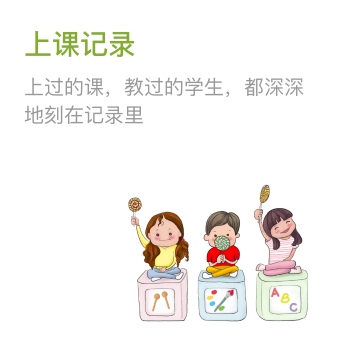
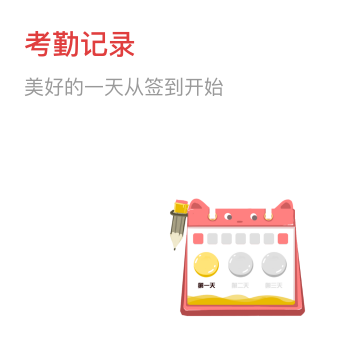
cahnge=>home-mianViewLinkPan

diff --git a/src/page/teacher/home.vue b/src/page/teacher/home.vue
@@ -53,11 +53,11 @@
                <img src="@/assets/images/home/teacher_1.png" alt="">
           </div>
         </div>
-        <div class="history history-1">
+        <!-- <div class="history history-1">
           <div class="plate-right" @click="gotoAttendence()">
             <img src="@/assets/images/home/teacher_2.png" alt="">
           </div>
-        </div>
+        </div> -->
       </div>
       <div class="bottom-class">
         <div class="class-title">本周课程</div>
